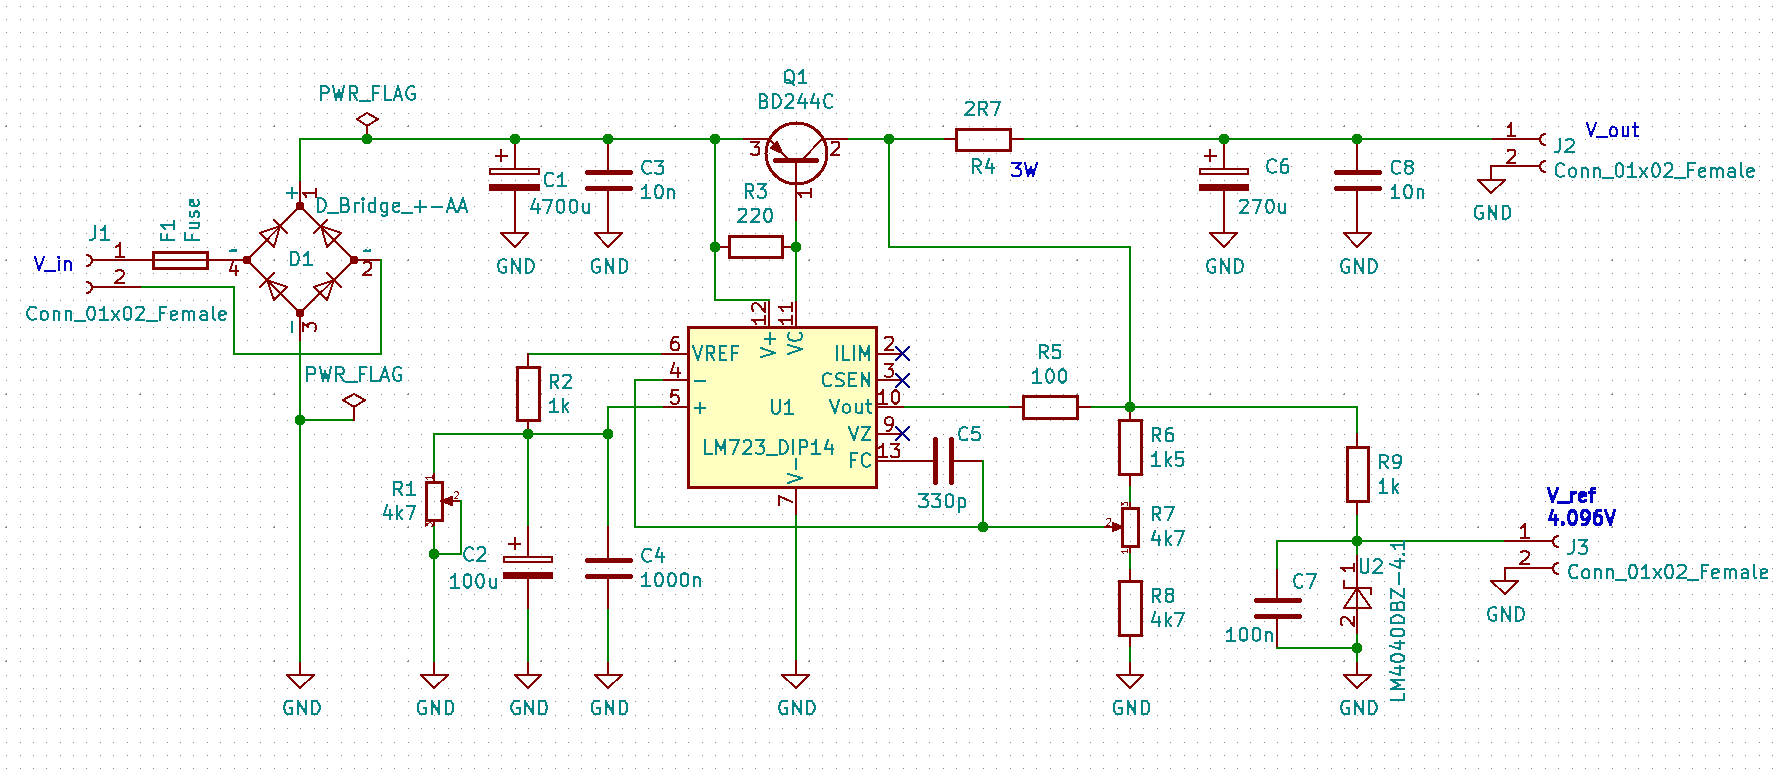
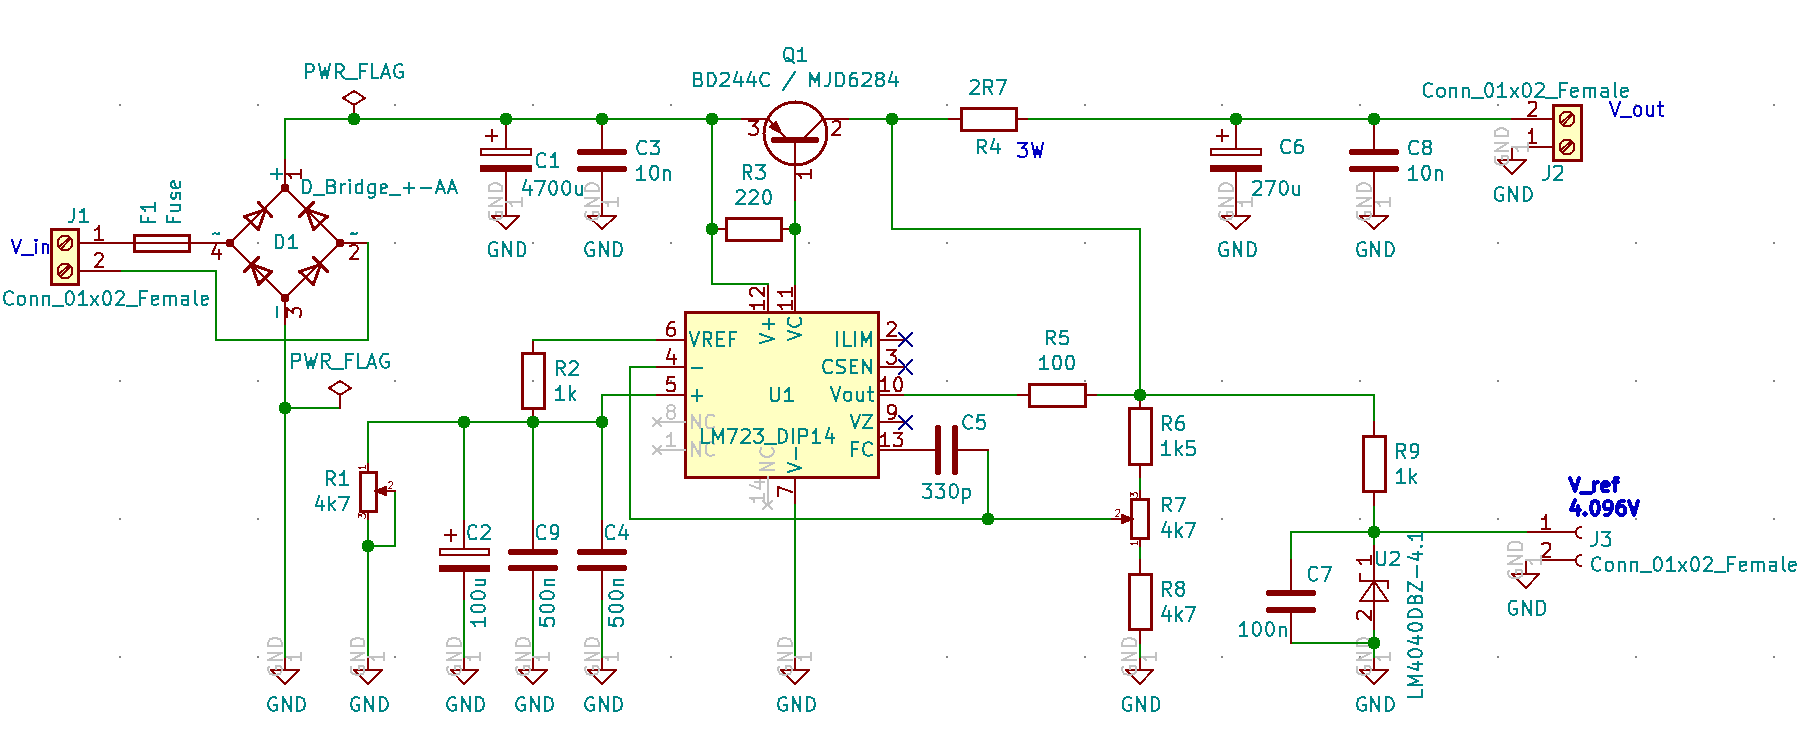
Improves Readme and its schema picture

diff --git a/Readme.md b/Readme.md
@@ -1,5 +1,6 @@
 # Low noise power supply
-Noise on the power lines is disturbing, especially when you have some RF
+
+Noise on the power supply is disturbing, especially when you have some RF
 components. Recently I got a hint to a work of Bernhard DG4RBF about his
 paper on
 [Rauschmessungen am LM723][].
@@ -9,8 +10,7 @@ which finally led to this KiCAD version using a LM723 and a PNP
 transistor BD244C.
 
 The files in the kicad directoy are licensed under the terms of the definition
-for Open Source Hardware Association. The PCB is available at
-[Aisler.net][]
+for Open Source Hardware Association.
 
 It is a simple schema as screenshot from my KiCAD session:
 
@@ -26,7 +26,16 @@ You have to decide which Voltage you need:
 
     use R7 for adjusting, R1 is not needed
 
+C4 is doubled now with C9, ultra low noise should use 1000nF in sum.
+
+If you don't need the ultra low noise feature, just bridge R4 and
+reduce C4, C9 to 100nF.
+
+R9, C7 and U2 provide a reference voltage, f.e. for ardiuno Aref to
+make exact measurements possible. If you you don't need this, just
+omit them on the pcb.
+
+
 Have fun!
 
 [Rauschmessungen am LM723]: https://dg4rbf.lima-city.de/Rauschmessungen%20am%20LM723.pdf
-[Aisler.net]: https://aisler.net/p/ZGJGRQZC
